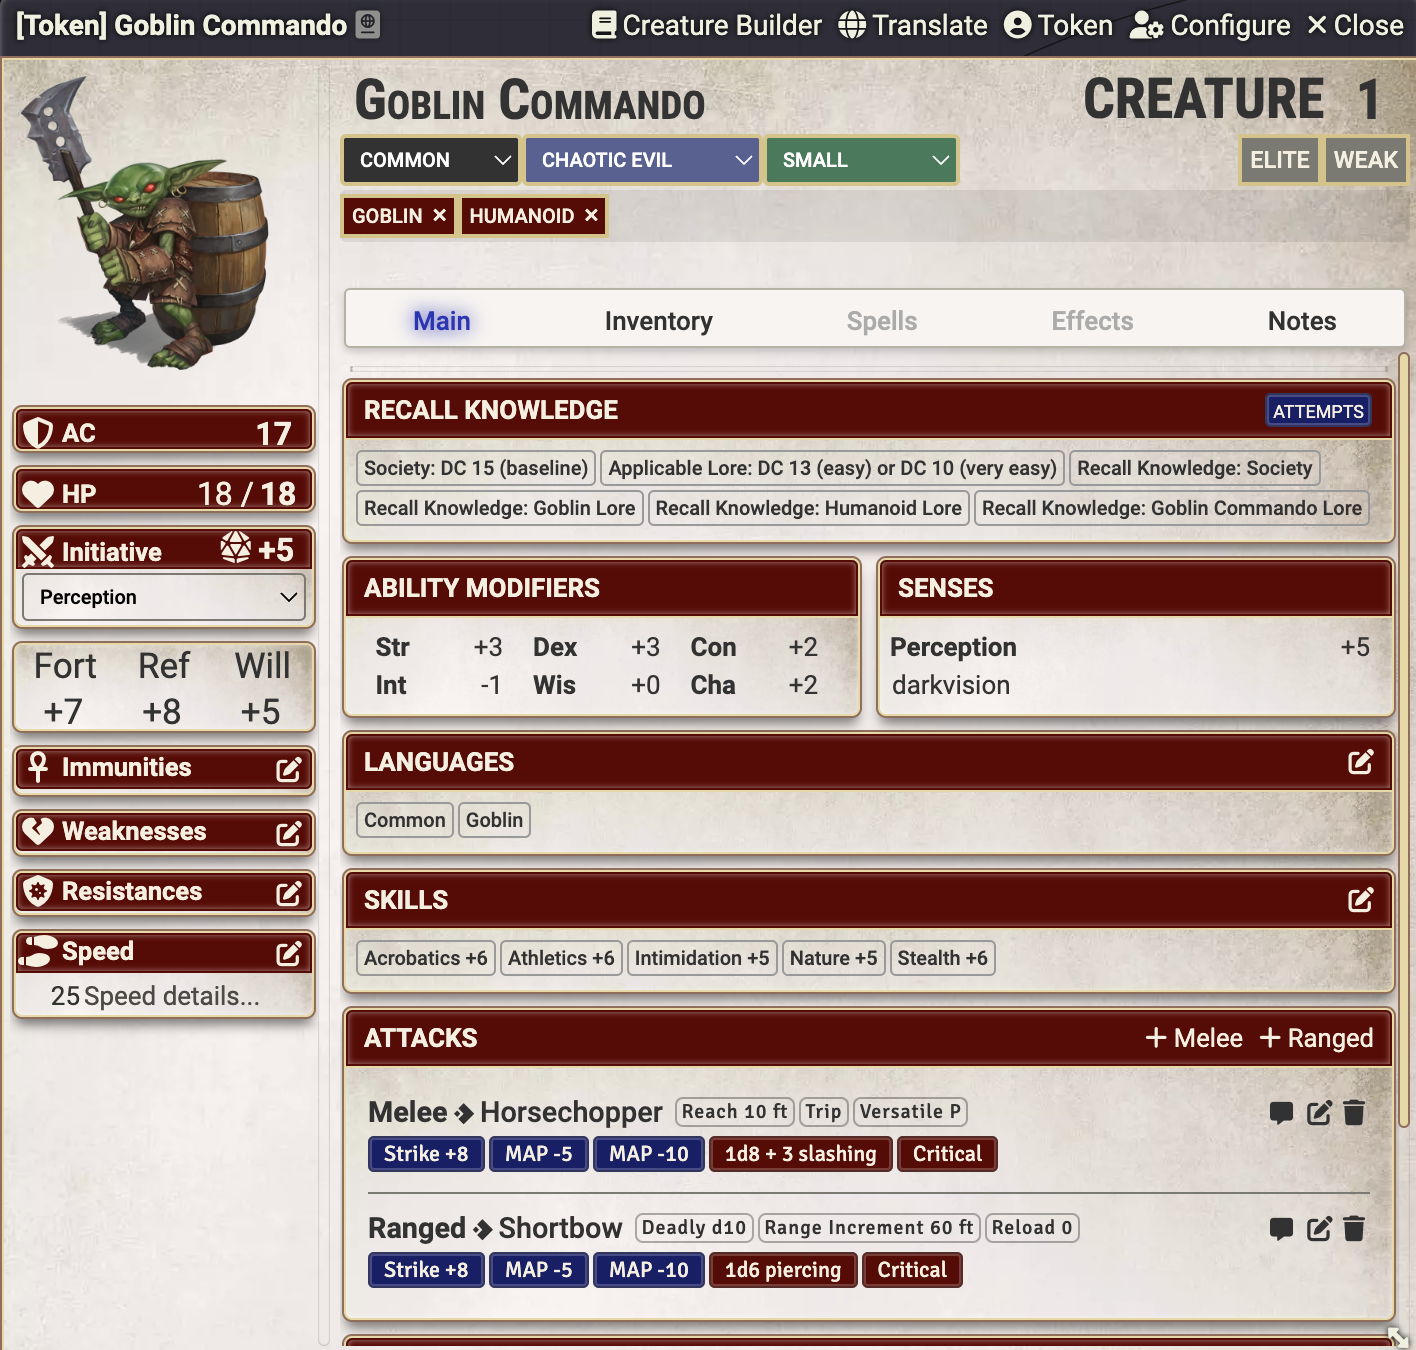
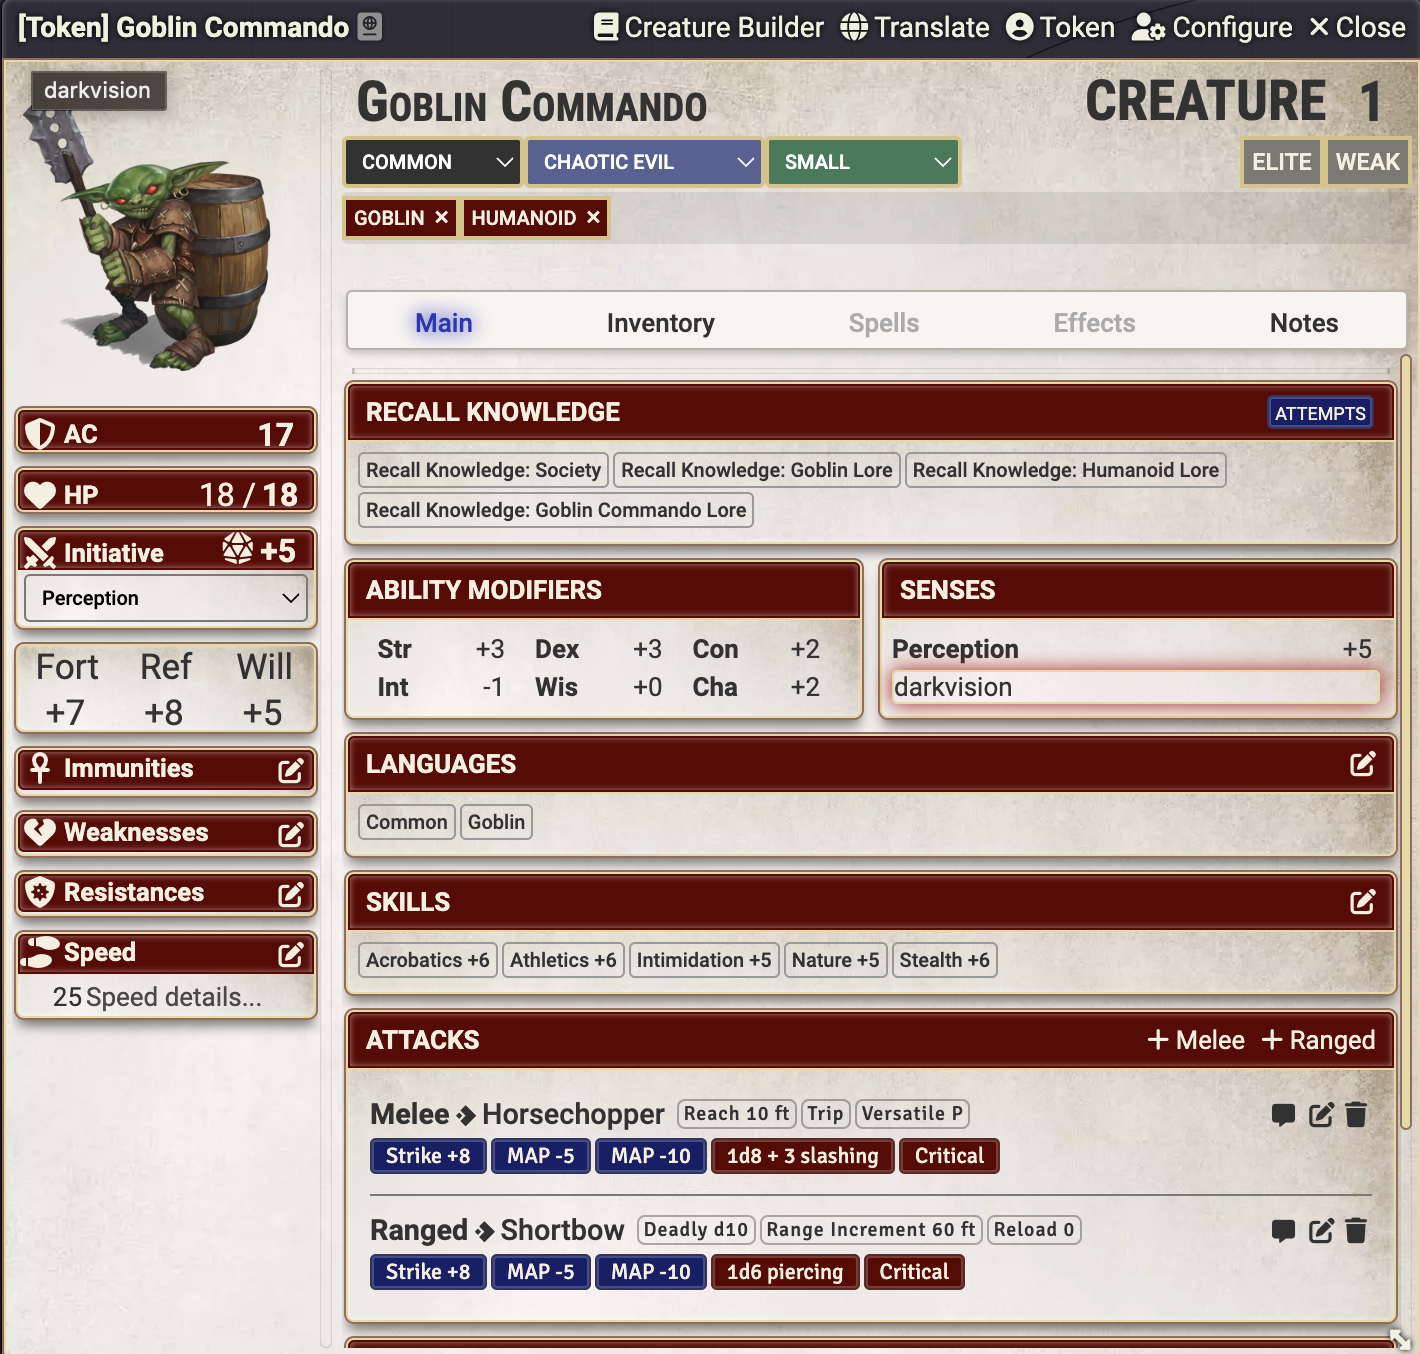
-   Hide Recall Knowledge Info from PC

diff --git a/src/hooks.js b/src/hooks.js
@@ -583,11 +583,19 @@ function addRecallButton(html, sheet, skill, dc, isLore=false) {
     var a = document.createElement('a');
     a.textContent = rec+': '+loc_skill
     a.onclick = function () {
-        let content = 'To Recall Knowledge '+(sheet?.token?.name?sheet?.token?.name:'') +', roll:';
+        let content = 'To Recall Knowledge, roll:';
         content += '<br>@Check[type:'+skill+'|dc:'+dc+'|traits:secret,action:recall-knowledge]';
         ChatMessage.create({
             content: TextEditor.enrichHTML(content, { async: false }),
-            speaker: ChatMessage.getSpeaker({ token: sheet.token }),
+            flavor: '',
+            user: null,
+            speaker: {
+                scene: null,
+                actor: null,
+                token: null,
+                alias: "System"
+            },
+            type: CONST.CHAT_MESSAGE_TYPES.OOC
         }).then();
     };
     but.append(a);
@@ -710,6 +718,8 @@ export default function reactionHooks() {
             if (recalls.length == 0) {
                 return;
             }
+            if (Settings.recallKnowledgeHideDef){recalls.addClass('hidden')}
+
             html[0].style.width = "710px";
 
             var skills = Array.from(new Set(sheet.object.system.traits.value.flatMap((t) => identifySkills.get(t) ?? [])));

diff --git a/src/settings.js b/src/settings.js
@@ -7,6 +7,9 @@ export default class Settings {
     static get recallKnowledge() {
         return game.settings.get("pf2e-reaction", "recall-knowledge");
     }
+    static get recallKnowledgeHideDef() {
+        return game.settings.get("pf2e-reaction", "recall-knowledge-hide-def");
+    }
     static get recallKnowledgeEasyLore() {
         return game.settings.get("pf2e-reaction", "recall-knowledge-easyLore");
     }
@@ -43,6 +46,13 @@ export default class Settings {
         game.settings.register("pf2e-reaction", "recall-knowledge", {
             name: game.i18n.localize("pf2e-reaction.recall-knowledge.name"),
             hint: game.i18n.localize("pf2e-reaction.recall-knowledge.hint"),
+            scope: "world",
+            config: true,
+            default: false,
+            type: Boolean,
+        });
+        game.settings.register("pf2e-reaction", "recall-knowledge-hide-def", {
+            name: 'Hide default recall knowledge labels',
             scope: "world",
             config: true,
             default: false,

diff --git a/README.md b/README.md
@@ -74,7 +74,7 @@ Open Game License:
 
 * See [OpenGameLicense.md](OpenGameLicense.md)
 
-[Version]: https://img.shields.io/badge/Version-0.2.19-yellow?style=flat-square
+[Version]: https://img.shields.io/badge/Version-0.2.20-yellow?style=flat-square
 [Version URL]: https://github.com/reyzor1991/foundry-vtt-pf2e-reaction
 
 [Forge Installs ULR]: https://img.shields.io/badge/dynamic/json?label=Forge%20Installs&query=package.installs&suffix=%25&url=https%3A%2F%2Fforge-vtt.com%2Fapi%2Fbazaar%2Fpackage%2Fpf2e-reaction&colorB=4aa94a

diff --git a/CHANGELOG.md b/CHANGELOG.md
@@ -1,5 +1,10 @@
 # Changelog
 
+## Version 0.2.20
+
+### New feature
+-   Hide Recall Knowledge Info from PC
+
 ## Version 0.2.19
 
 ### New feature
